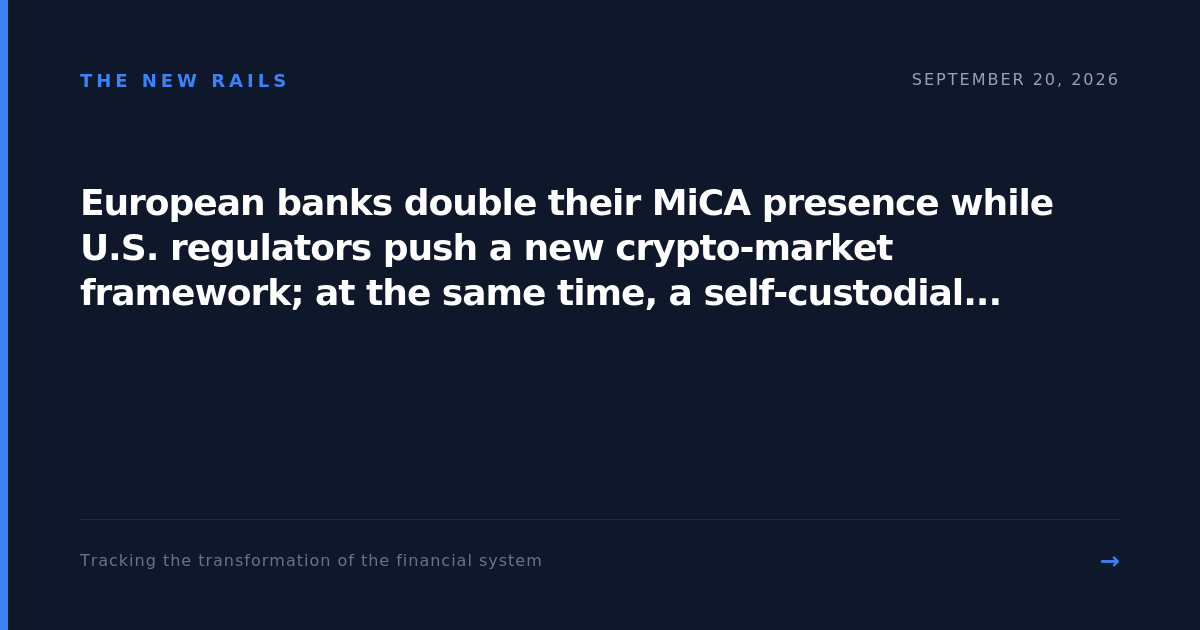
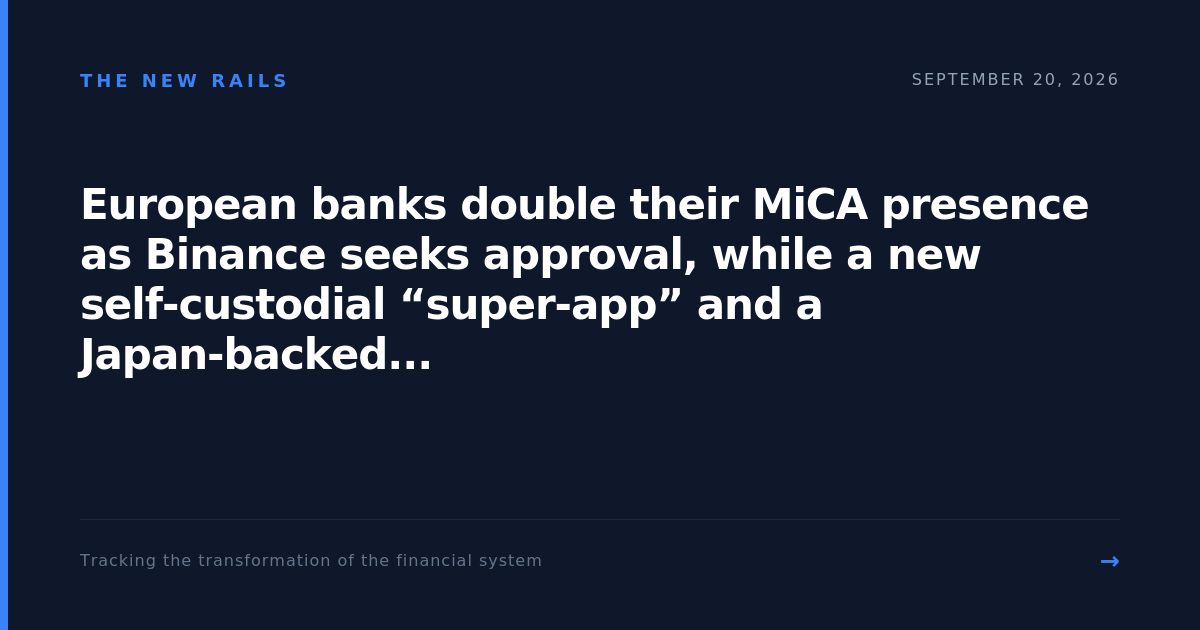
Daily financial system draft + header 2026-09-20

Changed region(s): [[0.0617, 0.3016, 0.925, 0.5127], [0.0617, 0.5429, 0.37, 0.6032]]

diff --git a/draft_20260920.md b/draft_20260920.md
@@ -1,61 +1,70 @@
-**Headline**  
-European banks double their MiCA presence while U.S. regulators push a new crypto‑market framework; at the same time, a self‑custodial “super‑app” and a Japan‑backed stable‑coin payment platform expand the commercial use‑case landscape.
+**HEADLINE**  
+European banks double their MiCA presence as Binance seeks approval, while a new self‑custodial “super‑app” and a Japan‑backed stable‑coin payments platform accelerate the shift toward retail‑focused crypto services.
 
 ---
 
-### What Happened  
+### WHAT HAPPENED  
 
-In the past 24 hours a cluster of developments signaled that both the supply‑side and the regulatory side of crypto are moving from experiment to mainstream.  
+In the past 24 hours a cluster of developments has highlighted the accelerating convergence of traditional finance and crypto.  
 
-* **World Money** – the fintech arm of the World ecosystem launched a self‑custodial “super‑app” that bundles stable‑coin payments, digital‑asset rewards and spot‑trading. The service is now live in more than 150 jurisdictions, positioning the app as a one‑stop shop for retail users who want to hold and move crypto without a custodial intermediary. (CoinTelegraph)
+* **MiCA rollout gains momentum.** According to **CoinTelegraph**, banks now account for almost one‑quarter of the providers listed on the European Securities and Markets Authority (ESMA) MiCA register—a share that has doubled since late June. The growth reflects banks’ strategic push to secure a foothold in the newly regulated crypto market before the EU’s Markets in Crypto‑Assets (MiCA) framework becomes fully operative later this year.  
 
-* **Binance** – the exchange rebuffed media reports that the European Central Bank had intervened in its Greek MiCA (Markets in Crypto‑Assets) licence request. Binance reiterated its commitment to obtaining a full EU authorisation, signalling that it still sees Europe as a key growth market. (CoinTelegraph)
+* **Binance doubles down on Europe.** The same outlet reported that Binance rejected media speculation that European Central Bank (ECB) chief Christine Lagarde was intervening in the exchange’s Greek MiCA application. Binance reaffirmed its commitment to obtain a full European license, signaling that the world’s largest crypto‑exchange still sees the EU as a critical growth market despite regulatory headwinds.  
 
-* **dtcpay** – Japan’s SBI Group led a $25 million Series A round for the stable‑coin payment processor. The capital will fund the expansion of its merchant network and the rollout of new payment products, reinforcing SBI’s strategy of integrating crypto‑based settlement into its broader financial services platform. (CoinTelegraph)
+* **Retail‑oriented crypto services expand.** Two new product launches target everyday users. World Money, described by **CoinTelegraph** as a “self‑custodial super‑app,” is rolling out across more than 150 countries, bundling stable‑coin payments, digital‑asset rewards and on‑ramp trading in a non‑custodial wallet. Meanwhile, Japanese‑backed payments firm **dtcpay** closed a $25 million Series A round led by SBI Group to grow its merchant network and broaden stable‑coin payment products.  
 
-* **Hyperliquid’s HYPE token** – after the platform introduced a manual borrowing feature that lets users borrow stable‑coins using HYPE or Bitcoin as collateral, the token hit an all‑time high of $90.92. The move illustrates how DeFi‑style lending tools are being layered onto centralized exchange products to attract yield‑seeking traders. (CoinTelegraph)
+* **Market reaction and price dynamics.** Bitcoin surged to $81 000 as U.S. 30‑year Treasury yields rebounded amid global oil concerns, while the HYPE token on Hyperliquid hit a fresh all‑time high of $90.92 after the platform introduced manual borrowing of stablecoins against HYPE and Bitcoin collateral. In the equities arena, crypto‑linked stocks such as Coinbase and Strategy recovered from the earlier sell‑off triggered by the Senate’s failure to advance the CLARITY Act, buoyed by a new CFTC regulatory filing that is now under White‑House review.  
 
-* **Bank participation in MiCA** – the European Securities and Markets Authority (ESMA) reported that banks now account for 23 % of the entities listed on the EU MiCA register, roughly double their share since late June. This reflects a rapid onboarding of traditional financial institutions into the regulated crypto‑service space. (CoinTelegraph)
+* **Regulatory push in the United States.** The Commodity Futures Trading Commission (CFTC) submitted a comprehensive crypto‑market regulatory plan to the White House, seeking a coordinated approach after the Senate stalled the CLARITY Act. The filing signals that U.S. regulators are moving forward with existing authority rather than waiting for new legislation.  
 
-* **Bitcoin price** – BTC surged to $81 000 as U.S. 30‑year Treasury yields rose again amid renewed oil‑price volatility. The price move underscores the continued correlation between macro‑risk assets and crypto’s risk‑on perception. (CoinTelegraph)
-
-* **U.S. regulatory push** – the Commodity Futures Trading Commission (CFTC) submitted a comprehensive crypto‑market regulatory plan to the White House for review, days after the Senate failed to advance the CLARITY Act. The filing outlines how the CFTC intends to use existing authority to supervise derivatives, spot trading and custodial activities. (CoinTelegraph)
-
-* **Crypto‑linked equities** – stocks of firms such as Coinbase and Strategy share rallied after the regulatory news, suggesting that market participants view the CFTC’s plan as a stabilising signal compared with the uncertainty created by the stalled CLARITY legislation. (CoinTelegraph)
+Collectively, these stories illustrate a rapid re‑shaping of the crypto ecosystem: traditional banks are moving onto the regulatory rails, large exchanges are fighting for a seat at the table, and a new wave of consumer‑focused, self‑custodial services is emerging to capture retail demand.
 
 ---
 
-### The Bigger Picture  
+### THE BIGGER PICTURE  
 
-All of these headlines point to a single, overarching rail being rebuilt: the **interface between regulated finance and decentralized digital assets**.  
+**Which rail is being rebuilt?**  
+The “rail” is the regulatory and infrastructure backbone that connects fiat‑based banking, payments, and capital markets with crypto assets. MiCA creates a formal, EU‑wide licensing regime that forces banks, exchanges, and fintechs to prove compliance, consumer protection, and AML/KYC standards. In the United States, the CFTC’s filing represents a parallel effort to impose a de‑facto framework using existing commodity‑trading rules. Together, these moves are converting a fragmented, jurisdiction‑by‑jurisdiction patchwork into a more unified, rule‑based track.
 
-1. **Who is building the rail?**  
-   *Traditional banks* are moving from peripheral exposure to core service providers. Their doubling presence on the MiCA register shows they are seeking licences that will let them offer custodial, settlement and lending services under a clear EU framework. In parallel, *large crypto exchanges* (Binance) are seeking the same licences to avoid a fragmented regulatory landscape. On the demand side, *self‑custodial apps* like World Money and *stable‑coin payment platforms* such as dtcpay are creating consumer‑grade products that can be integrated into existing banking channels, especially in markets where fiat‑to‑crypto conversion is still friction‑heavy.
+**Who wins?**  
 
-2. **Who wins?**  
-   - **Institutions that can combine compliance with product innovation**. Banks that secure MiCA authorisations will be able to monetize crypto custody, cross‑border payments and on‑ramp services while retaining their risk‑management frameworks.  
-   - **Technology firms that embed crypto into everyday workflows**. World Money’s “super‑app” model, which eliminates the need for a third‑party custodian, offers a low‑cost, high‑velocity channel for retail adoption. Its global rollout gives it a first‑mover advantage in markets where regulatory clarity is still emerging.  
-   - **Investors seeking yield**. The launch of manual borrowing on Hyperliquid and the record HYPE price demonstrate that leveraged, DeFi‑style products can thrive when offered on regulated or semi‑regulated exchanges, attracting capital that would otherwise stay in traditional fixed‑income markets.
+* **Incumbent banks** – By securing a place on the MiCA register, banks gain early‑mover advantage in offering custodial services, tokenized deposits, and cross‑border payments under a clear legal umbrella. Their existing client relationships and compliance infrastructure give them a cost edge over pure‑play crypto firms.  
 
-3. **Who loses?**  
-   - **Unlicensed or “shadow” service providers** that cannot meet MiCA or forthcoming U.S. standards. Their market share will shrink as banks and licensed exchanges win corporate and retail contracts.  
-   - **Speculative traders relying on regulatory arbitrage**. The CFTC’s plan and the resurgence of crypto equities suggest that regulators are closing loopholes that previously allowed high‑leverage, low‑margin trading with limited oversight.  
+* **Large exchanges that obtain licences** – Binance’s persistence shows that an exchange with deep liquidity and a global brand can still capture European market share if it meets MiCA’s capital, governance, and consumer‑protection requirements.  
 
-4. **Old system vs. new system**  
-   The legacy banking model treats crypto as a peripheral asset class, often relegated to a “sandbox” or a separate subsidiary. The emerging system integrates crypto directly into the core banking stack: custodial licences, AML/KYC compliance, and settlement infrastructure become part of the same regulatory perimeter that governs FX and securities. This integration reduces friction for corporate treasury departments that want to pay suppliers in stable‑coins, and for institutional investors seeking exposure without a separate custodial chain. At the same time, the rise of self‑custodial apps introduces a parallel path where end‑users retain private‑key control, but still interact with regulated on‑ramps and off‑ramps, blurring the line between “banked” and “unbanked” crypto usage.
+* **Retail‑focused fintechs** – World Money and dtcpay illustrate a different winning formula: bypass custodial risk by staying self‑custodial, bundle stable‑coin payments with rewards, and lean on venture capital (e.g., SBI’s $25 m) to scale merchant adoption. Their appeal lies in low friction for end‑users, especially in emerging markets where traditional banking is thin.  
+
+* **Institutional investors** – The clearer regulatory landscape reduces compliance uncertainty, allowing treasury teams and asset managers to allocate capital to crypto‑linked strategies (e.g., Bitcoin exposure, tokenized cash) with greater confidence.  
+
+**Who loses?**  
+
+* **Unlicensed or opaque operators** – Projects that rely on “no‑license” models will find it harder to access EU customers once MiCA enforcement tightens.  
+
+* **Crypto firms that ignore AML/KYC** – The heightened scrutiny from both European and U.S. regulators will push out platforms that cannot meet robust identity‑verification standards.  
+
+* **Retail users accustomed to fully custodial wallets** – As self‑custodial solutions become mainstream, users who prefer a bank or exchange to hold their keys may need to adjust to higher personal responsibility for security.  
+
+**What does this mean for the old system vs. the new one?**  
+The old system—centralized banking, legacy payment rails, and a regulatory blind spot for crypto—has been forced to adapt. Banks are no longer passive observers; they are actively registering as MiCA providers, building crypto‑custody desks, and experimenting with tokenized products. Meanwhile, the new system—characterized by decentralized, self‑custodial wallets and stable‑coin payment networks—leverages the same regulatory scaffolding to gain legitimacy and scale. The two tracks are no longer parallel but intersecting: banks can partner with or acquire fintechs like dtcpay, while exchanges must embed compliance layers to survive in Europe. The outcome is a hybrid ecosystem where custodial and non‑custodial services coexist, each serving distinct user segments and risk appetites.
 
 ---
 
-### What to Watch  
+### WHAT TO WATCH  
 
-- **EU MiCA licence roll‑out (Q4 2026‑Q1 2027)** – Track the timeline for the European Commission’s final authorisation guidelines. The speed at which banks convert their ESMA registration into full‑scale licences will indicate how quickly they can launch crypto‑centric products.  
+- **MiCA licensing deadlines (Q4 2026).** The EU requires all crypto service providers to be fully licensed by the end of 2026. Watch for the first wave of bank‑backed licences and any enforcement actions against non‑compliant firms.  
 
-- **CFTC regulatory framework (White House response expected by early Q4 2026)** – The administration’s feedback will shape the scope of the CFTC’s authority, especially concerning spot‑market oversight and stable‑coin custodial requirements.  
+- **Binance’s Greek application outcome (expected early Q4).** A decision from the Hellenic Financial Stability Authority will be an early indicator of how strictly the EU will interpret MiCA requirements for large, cross‑border exchanges.  
 
-- **World Money user growth metrics (monthly updates)** – Pay attention to the app’s onboarding numbers, transaction volume, and any partnership announcements with local banks or payment processors.  
+- **World Money’s rollout metrics (monthly).** Track active wallet counts, transaction volume, and geographic adoption, especially in regions with limited banking penetration.  
 
-- **dtcpay merchant network expansion (next 6 months)** – SBI’s involvement suggests a push into Japanese and broader Asian markets. Monitor the number of merchants accepting stable‑coin payments and any integration with existing POS ecosystems.  
+- **dtcpay merchant network expansion (quarterly).** SBI’s involvement suggests a strategic push into Japan and Southeast Asia; monitor the number of merchants onboarded and the volume of stable‑coin settlements.  
 
-- **Crypto‑linked equity performance (post‑regulatory news)** – Observe whether the rebound in stocks like Coinbase sustains or reverses as the regulatory environment clarifies. A sustained rally could signal confidence in the “regulated crypto” narrative; a pull‑back may indicate lingering market scepticism.  
+- **CFTC‑White House dialogue (next 30 days).** The White House’s response to the CFTC’s plan will shape the U.S. regulatory trajectory and could prompt a legislative push for a dedicated crypto bill, influencing global capital flows.  
 
-These data points will help you gauge whether the regulatory‑driven convergence of banking and crypto is accelerating, plateauing, or
+- **Crypto‑linked equity performance (weekly).** The rebound in stocks like Coinbase after the CLARITY setback shows sensitivity to regulatory news; a sustained rally could signal investor confidence in a “regulation‑first” market.  
+
+- **Stable‑coin reserve transparency (ongoing).** As banks and fintechs embed stable‑coins into payments, regulators will likely demand more frequent disclosures of reserve assets; any gaps could trigger market volatility.  
+
+---
+
+**Bottom line for strategy leads:** The regulatory rail is being laid out in Europe and the United States, and traditional banks are positioning themselves as the first‑class passengers. At the same time, a parallel, self‑custodial rail is expanding rapidly, targeting retail users with low‑friction stable‑coin
